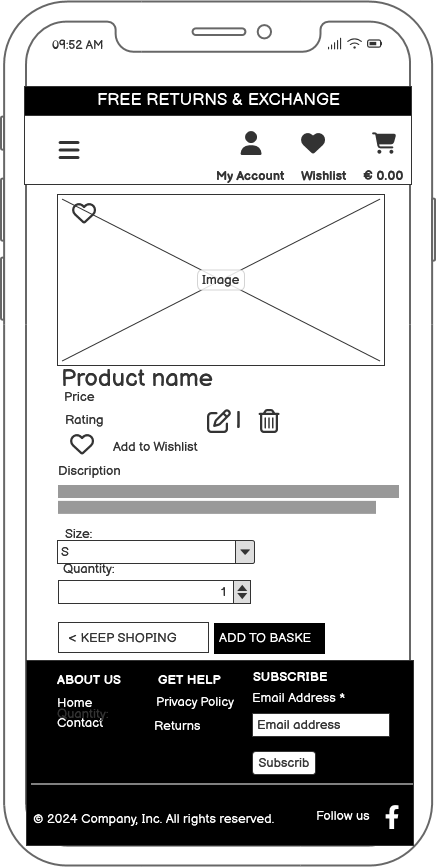
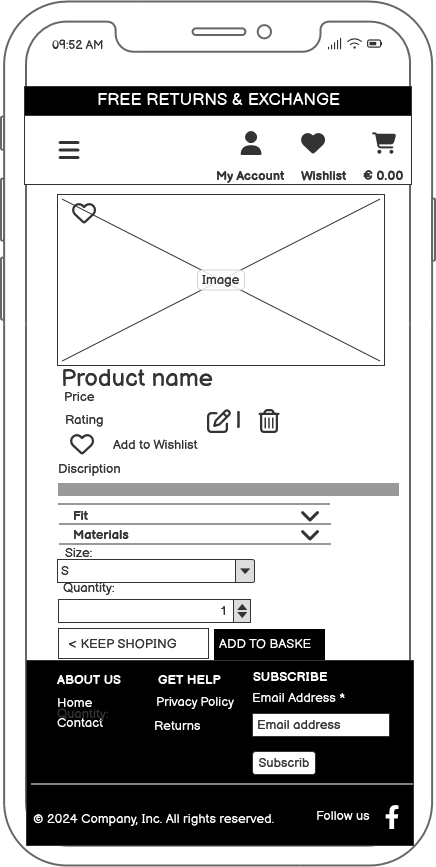
Add info about Fit and Materials to readmi file

Changed region(s): [[0.1193, 0.4983, 0.8647, 0.7785], [0.1491, 0.7163, 0.4174, 0.7474]]

diff --git a/products/models.py b/products/models.py
@@ -34,7 +34,7 @@ class Product(models.Model):
         ('Loose', 'Loose'),
         ('Athletic', 'Athletic'),
         ('Relaxed', 'Relaxed'),
-        ('Skinny', 'Skinny'),
+        ('Oversized', 'Oversized'),
     ]
     category = models.ForeignKey('Category', null=True,
                                  blank=True, on_delete=models.SET_NULL)

diff --git a/README.md b/README.md
@@ -457,6 +457,16 @@ If the user clicks the search button without entering anything, an error message
 - The page also displays reviews left by users, with the option for authorized users to leave their own.
 - Reviews can be updated or deleted by the user who left them or by the administrator/superuser. These are all CRUD functions.
 
+![Alt text](documentation/image-213.png)
+![Alt text](documentation/image-214.png)
+
+- Also in the drop-down window you can see Fit as well as the material from which the clothes are made.
+
+![Alt text](documentation/image-215.png)
+![Alt text](documentation/image-216.png)
+
+- You can make changes to Fit and Materials either in the admin panel or on the editing page directly on the site with access rights as an administrator.
+
 
 - If the user is not authorized, he is prompted to log into his account or register.
 
